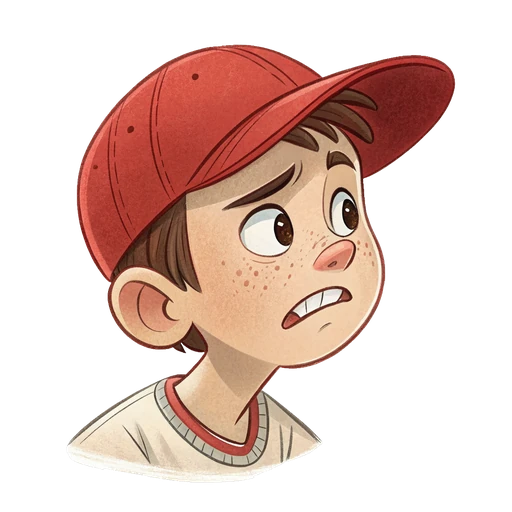
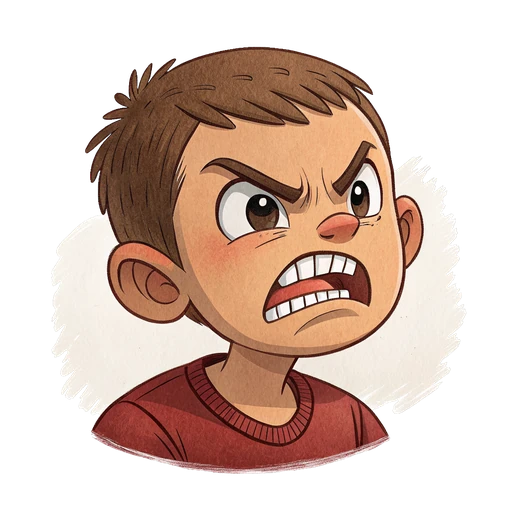
feat(games): add Nervous emotion + sharper Angry face (Emotion ID)
Regenerate the Angry bust so it clearly reads as angry (the previous one
looked merely concerned), and reuse that concerned image as a new Nervous
emotion (11th in the set). Version-stamp face-image URLs with
?v=APP_VERSION so a rerolled bust busts the browser cache. Bump
APP_VERSION 0.11.0 -> 0.11.1.

diff --git a/apps/games/emotions/index.html b/apps/games/emotions/index.html
@@ -360,6 +360,7 @@
     { key:'sad',       label:'Sad',       face:'😢', color:'#4f86c6' },
     { key:'angry',     label:'Angry',     face:'😠', color:'#e0552f' },
     { key:'scared',    label:'Scared',    face:'😨', color:'#8b5cf6' },
+    { key:'nervous',   label:'Nervous',   face:'😰', color:'#20a4a4' },
     { key:'surprised', label:'Surprised', face:'😮', color:'#ef9f27' },
     { key:'tired',     label:'Tired',     face:'😴', color:'#6d93a4' },
     { key:'calm',      label:'Calm',      face:'😌', color:'#1d9e75' },
@@ -368,7 +369,7 @@
     { key:'silly',     label:'Silly',     face:'😜', color:'#f97316' },
   ];
   const byKey = k => EMOTIONS.find(e => e.key === k);
-  const faceImg = e => 'faces/' + e.key + '.webp';
+  const faceImg = e => 'faces/' + e.key + '.webp' + (window.APP_VERSION ? '?v=' + window.APP_VERSION : '');
   // Render an emotion's "face" into a container: cel-shaded picture (image mode)
   // or emoji (emoji mode). Falls back to the emoji if the image fails to load.
   function paintFace(container, e) {

diff --git a/apps/games/_worker.js b/apps/games/_worker.js
@@ -6,7 +6,7 @@ import { handleSuggest } from "./shared/suggest.js";
 // Single source of truth for the deployed app version. Bump on every deploy that
 // changes CSS/JS so the asset ?v= query changes and clients fetch fresh files.
 // Policy: patch = fixes, minor = features/reskins; major stays 0 for now.
-const APP_VERSION = "0.11.0";
+const APP_VERSION = "0.11.1";
 
 // Append ?v=APP_VERSION to local (relative) css/js URLs in served HTML, and expose
 // the version to the page as window.APP_VERSION. External/CDN URLs (http(s):, //)
